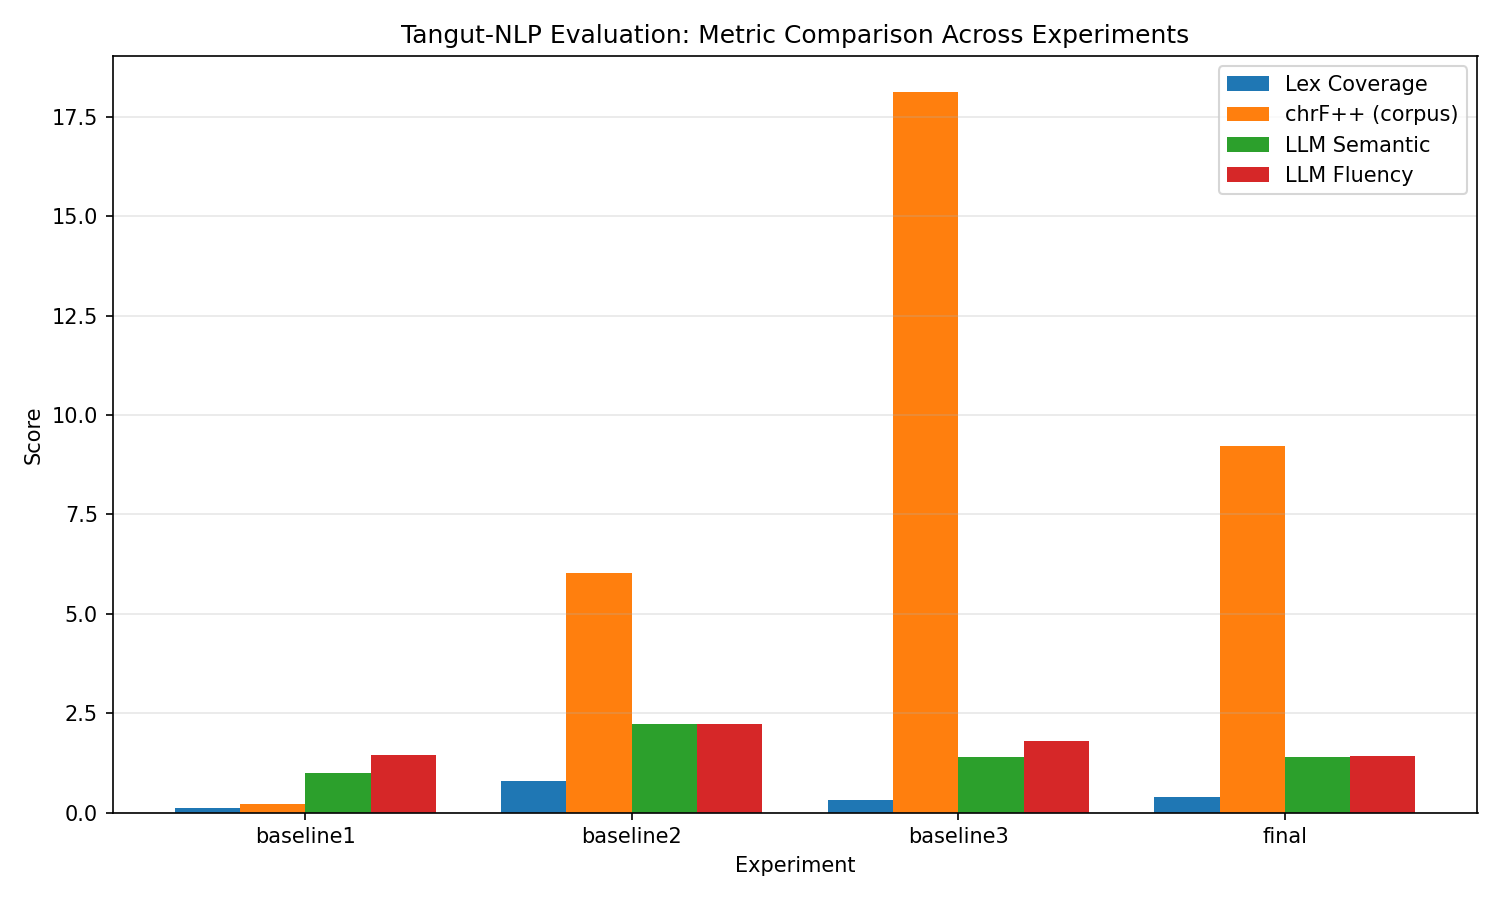
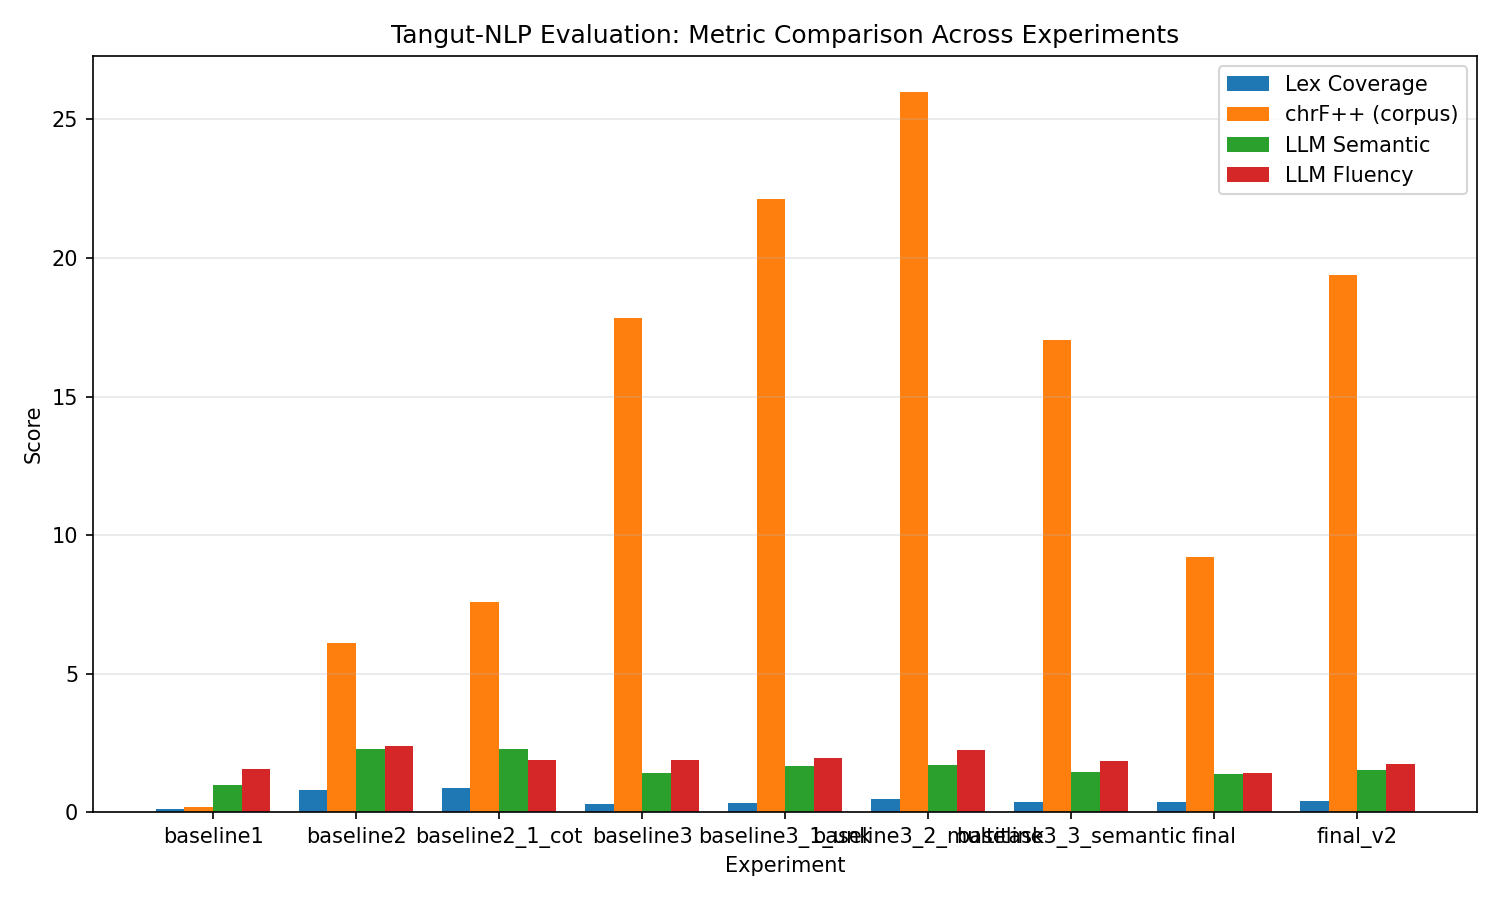
Add metrics and predictions for final_v2 model evaluation
- Created metrics.json with lexical coverage, perplexity, chrF scores, and LLM judge ratings.
- Added predictions.jsonl containing input, reference, and prediction pairs for 50 examples using the final_v2_dpo method.

diff --git a/eval/aggregate_results.py b/eval/aggregate_results.py
@@ -9,6 +9,7 @@ import os
 import matplotlib
 matplotlib.use("Agg")  # Non-interactive backend for headless environments
 import matplotlib.pyplot as plt
+import numpy as np
 import pandas as pd
 
 
@@ -163,6 +164,147 @@ def create_bar_chart(df: pd.DataFrame, results_root: str = RESULTS_ROOT):
     print(f"  Saved {chart_path}")
 
 
+def create_radar_chart(df: pd.DataFrame, results_root: str = RESULTS_ROOT):
+    """Create redesigned radar charts with fixed, interpretable scaling.
+
+    Saves:
+        - results/comparison_radar_new.png (all experiments overlay)
+        - results/comparison_radar_each.png (one panel per experiment)
+
+    Metric scaling (all mapped to [0, 1], higher is better):
+        - Lexical Coverage: direct, clipped to [0, 1]
+        - PPL Quality: log-scale inverse from PPL in [1, 1e6]
+        - chrF++: clipped to [0, 30], then /30
+        - Semantic: from judge score [1, 5] to [0, 1]
+        - Fluency: from judge score [1, 5] to [0, 1]
+    """
+
+    required_cols = [
+        "lex_coverage_mean",
+        "ppl_mean",
+        "chrf_corpus",
+        "llm_semantic",
+        "llm_fluency",
+    ]
+    for col in required_cols:
+        if col not in df.columns or df[col].isna().all():
+            print(f"  [WARNING] Missing/empty column for radar chart: {col}")
+            return
+
+    def _clip_series(series: pd.Series, lo: float, hi: float) -> pd.Series:
+        return series.astype(float).clip(lower=lo, upper=hi)
+
+    normalized = pd.DataFrame(
+        {
+            "Lexical Coverage": _clip_series(df["lex_coverage_mean"], 0.0, 1.0),
+            "PPL Quality": (
+                6.0 - np.log10(_clip_series(df["ppl_mean"], 1.0, 1_000_000.0))
+            )
+            / 6.0,
+            "chrF++": _clip_series(df["chrf_corpus"], 0.0, 30.0) / 30.0,
+            "Semantic": (_clip_series(df["llm_semantic"], 1.0, 5.0) - 1.0) / 4.0,
+            "Fluency": (_clip_series(df["llm_fluency"], 1.0, 5.0) - 1.0) / 4.0,
+        }
+    ).fillna(0.0)
+
+    axis_labels = [
+        "Lexical\n(0-1)",
+        "PPL Quality\n(log 1..1e6)",
+        "chrF++\n(0-30)",
+        "Semantic\n(1-5)",
+        "Fluency\n(1-5)",
+    ]
+
+    labels = list(normalized.columns)
+    n = len(labels)
+    angles = np.linspace(0, 2 * np.pi, n, endpoint=False).tolist()
+    angles += angles[:1]
+
+    # Global overlay chart.
+    fig, ax = plt.subplots(figsize=(10, 10), subplot_kw={"polar": True})
+    colors = plt.cm.get_cmap("tab10", len(normalized))
+
+    for idx, row in normalized.iterrows():
+        values = row.tolist()
+        values += values[:1]
+        exp_name = df.loc[idx, "experiment"]
+        color = colors(idx % 10)
+        ax.plot(angles, values, linewidth=1.8, marker="o", markersize=3, label=exp_name, color=color)
+
+    ax.set_xticks(angles[:-1])
+    ax.set_xticklabels(axis_labels)
+    ax.set_ylim(0, 1)
+    ax.set_yticks([0.2, 0.4, 0.6, 0.8, 1.0])
+    ax.set_yticklabels(["0.2", "0.4", "0.6", "0.8", "1.0"])
+    ax.set_title("Tangut-NLP Evaluation: Radar Comparison (Rescaled)", pad=28)
+    ax.grid(alpha=0.35)
+    ax.legend(loc="upper right", bbox_to_anchor=(1.38, 1.15), fontsize=8)
+
+    plt.tight_layout()
+    radar_path = os.path.join(results_root, "comparison_radar.png")
+    plt.savefig(radar_path, dpi=180, bbox_inches="tight")
+    plt.close()
+
+    print(f"  Saved {radar_path}")
+
+    # Per-experiment panels to ensure every baseline is clearly visible.
+    exp_count = len(normalized)
+    n_cols = 3
+    n_rows = int(np.ceil(exp_count / n_cols))
+    fig, axes = plt.subplots(
+        n_rows,
+        n_cols,
+        figsize=(5.2 * n_cols, 4.8 * n_rows),
+        subplot_kw={"polar": True},
+    )
+    axes = np.array(axes).reshape(-1)
+
+    for i, (_, row) in enumerate(normalized.iterrows()):
+        ax_i = axes[i]
+        values = row.tolist()
+        values += values[:1]
+        exp_name = df.loc[row.name, "experiment"]
+
+        color = colors(i % 10)
+        ax_i.plot(angles, values, linewidth=2.0, marker="o", markersize=3, color=color)
+        ax_i.fill(angles, values, alpha=0.12, color=color)
+        ax_i.set_xticks(angles[:-1])
+        ax_i.set_xticklabels(axis_labels, fontsize=8)
+        ax_i.set_ylim(0, 1)
+        ax_i.set_yticks([0.25, 0.5, 0.75, 1.0])
+        ax_i.set_yticklabels(["0.25", "0.5", "0.75", "1.0"], fontsize=7)
+        ax_i.set_title(exp_name, fontsize=11, pad=14)
+        ax_i.grid(alpha=0.35)
+
+        raw_text = (
+            f"lex={df.loc[row.name, 'lex_coverage_mean']:.3f}\n"
+            f"ppl={df.loc[row.name, 'ppl_mean']:.1f}\n"
+            f"chrf={df.loc[row.name, 'chrf_corpus']:.2f}\n"
+            f"sem={df.loc[row.name, 'llm_semantic']:.2f}\n"
+            f"flu={df.loc[row.name, 'llm_fluency']:.2f}"
+        )
+        ax_i.text(
+            np.deg2rad(6),
+            1.14,
+            raw_text,
+            fontsize=7,
+            va="top",
+            ha="left",
+            bbox={"facecolor": "white", "alpha": 0.7, "edgecolor": "none", "pad": 2.5},
+        )
+
+    for j in range(exp_count, len(axes)):
+        fig.delaxes(axes[j])
+
+    fig.suptitle("Tangut-NLP Evaluation: Radar by Experiment (Rescaled)", y=0.995, fontsize=14)
+    plt.tight_layout(rect=[0, 0, 1, 0.985])
+    radar_each_path = os.path.join(results_root, "comparison_radar_each.png")
+    plt.savefig(radar_each_path, dpi=180, bbox_inches="tight")
+    plt.close()
+
+    print(f"  Saved {radar_each_path}")
+
+
 def main():
     print("Aggregating evaluation results ...")
     print()
@@ -183,6 +325,7 @@ def main():
 
     save_comparison(df)
     create_bar_chart(df)
+    create_radar_chart(df)
 
     print("\nDone.")
 

diff --git a/experiments/final_dpo.py b/experiments/final_dpo.py
@@ -1,6 +1,7 @@
 """Final method: DPO training on preference pairs from SFT model."""
 
 import sys
+import os
 import argparse
 import json
 import torch
@@ -14,6 +15,23 @@ sys.path.insert(0, str(Path(__file__).resolve().parent.parent))
 from src.prompt_templates import SYSTEM_SFT
 
 PROJECT_ROOT = Path(__file__).resolve().parent.parent
+
+
+def enable_resume_compat_if_needed(resume_path):
+    if not resume_path:
+        return
+
+    # PyTorch 2.6 changed torch.load default to weights_only=True, which can
+    # break loading legacy Trainer RNG state when resuming.
+    version_core = torch.__version__.split("+")[0]
+    parts = version_core.split(".")
+    major = int(parts[0]) if len(parts) > 0 and parts[0].isdigit() else 0
+    minor = int(parts[1]) if len(parts) > 1 and parts[1].isdigit() else 0
+    if (major, minor) >= (2, 6):
+        os.environ.setdefault("TORCH_FORCE_NO_WEIGHTS_ONLY_LOAD", "1")
+        print(
+            "[resume] Enabled TORCH_FORCE_NO_WEIGHTS_ONLY_LOAD=1 for trusted checkpoint compatibility."
+        )
 
 
 def sync_special_token_ids(model, tokenizer):
@@ -58,6 +76,8 @@ def main():
     parser.add_argument("--max-length", type=int, default=512)
     parser.add_argument("--resume", type=str, default=None, help="Path to checkpoint to resume from")
     args = parser.parse_args()
+
+    enable_resume_compat_if_needed(args.resume)
 
     with open(args.dpo_data, "r", encoding="utf-8") as f:
         raw = [json.loads(line) for line in f]